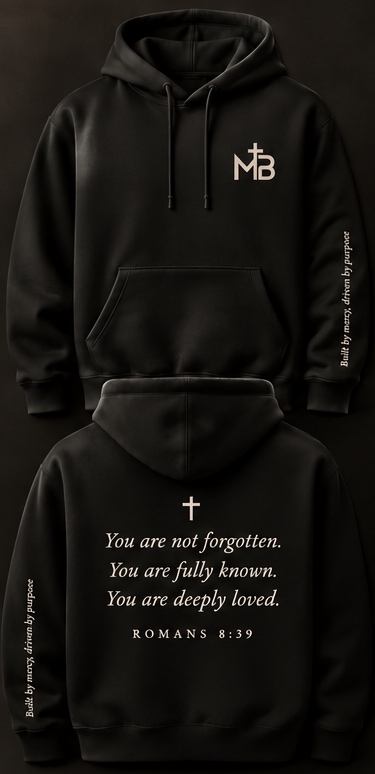
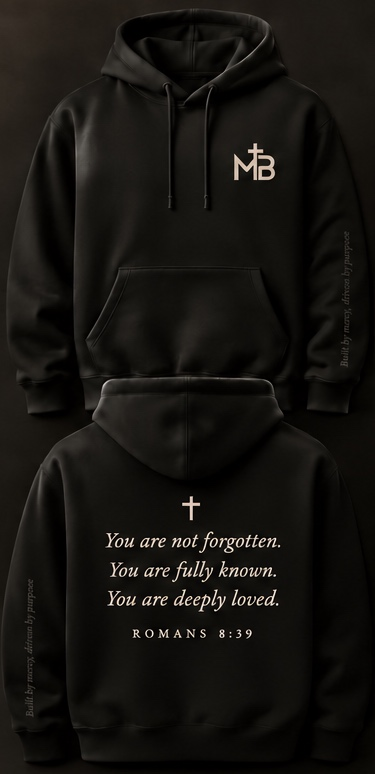
Use tonal sleeve lettering across hoodie previews

diff --git a/index.html b/index.html
@@ -4,6 +4,6 @@
 .product-card .card-preorder{display:inline-block;margin-top:14px}
 .interest-form .form-status{margin:8px 0 0;font-size:.95rem}
 .interest-form .form-status.error{color:#ff8a80}
-</style></head><body><header class="site-header" aria-label="Site header"><a class="brand-lockup" href="#top" aria-label="Mercy Built home"><img class="header-logo" src="assets/mercy-built-logo.jpg" alt="Mercy Built"/></a><nav aria-label="Primary navigation"><a href="#story">Story</a><a href="#drop">First Drop</a><a href="#sports">Sports</a><a href="#bracelets">Bracelets</a><a href="#email">Join</a><a href="#want">Tell Us</a><a class="nav-preorder" href="preorder/">Preorder the hoodie</a></nav></header><main id="top"><section class="hero"><div class="hero-card hero-photo" aria-label="Mercy Built apparel preview"><img class="hero-product-image" src="assets/mercy-built-hero-products.png" alt="Mercy Built hats, tees, and polo in warm studio light"/></div><div class="hero-copy"><p class="eyebrow">Christian apparel for every occasion</p><h1>Not self-made.<br/>Mercy built.</h1><p class="lead">Built for training, everyday wear, the course, and wherever faith has to show up quietly without pretending we have it all figured out.</p><div class="hero-actions"><a class="button" href="preorder/">Request a hoodie preorder</a><dialog id="hoodie-dialog" class="hoodie-preorder" aria-labelledby="hoodie-title"><button class="hoodie-close" type="button" aria-label="Close hoodie preorder">×</button><p class="eyebrow">Mercy Built first release</p><h2 id="hoodie-title">Hoodie preorders</h2><form class="interest-form" action="/api/interest" method="post"><p>Pick your size and color. We’ll email you when it’s time to order. No payment is due today.</p><input type="hidden" name="form_type" value="hoodie-preorder"/><div class="form-row form-row-grid"><label class="field-stack">Size<select name="preferred_size" required=""><option value="" disabled="" selected="">Choose size</option><option>XS</option><option>S</option><option>M</option><option>L</option><option>XL</option><option>2XL</option><option>3XL</option></select></label><label class="field-stack">Color<select name="preferred_color" required=""><option value="" disabled="" selected="">Choose color</option><option>Black</option><option>Olive</option><option>Cream</option><option>Blush Pink</option></select></label></div><label class="field-stack">Name<input autoComplete="name" maxLength="120" required="" name="name"/></label><label class="field-stack">Email address<input type="email" autoComplete="email" maxLength="180" required="" name="email"/></label><button type="submit">Send preorder request</button></form></dialog><a class="text-link" href="#story">Read the story</a></div></div></section><section id="story" class="story section-grid"><div><p class="eyebrow">The foundation</p><h2>Built by mercy, not ego.</h2></div><div class="story-copy"><p>Mercy Built began with a personal faith journey: baptism, surrender, and the daily work of becoming a better Christian man. The name is a reminder that strength does not start with pride. It starts with God meeting us in our weakness and rebuilding us by His mercy.</p><p>This is apparel for people still being formed. For training hard, leading humbly, falling short, getting back up, and continuing to walk with Christ.</p></div></section><section id="drop" class="drop"><div class="section-heading"><p class="eyebrow">First drop direction</p><h2>Faith-built essentials.</h2></div><figure class="product-board"><img src="assets/mercy-built-hats-polos.png" alt="Mercy Built black and cream hats with olive and black golf polos"/></figure><figure class="product-board product-board-small"><img src="assets/mercy-built-womens-pink-set.png" alt="Mercy Built blush pink hat and women&#x27;s polo with black MB cross logo"/></figure><figure class="product-board"><img src="assets/mercy-built-tees-corinthians.jpg" alt="Mercy Built tees in black, olive, cream, and pink with left chest logo and 2 Corinthians 5:17 back verse"/></figure><figure class="product-board"><img src="assets/mercy-built-hoodies-romans.jpg?v=sleeves" alt="Mercy Built hoodies in four colors with lettering on the left sleeve and the Romans 8:39 back message"/></figure><figure class="product-board"><img src="assets/mercy-built-womens-sweatpants.png" alt="Mercy Built women&#x27;s sweatpants in black, olive, cream, and pink with MB cross logo"/></figure><figure class="product-board"><img src="assets/mercy-built-training-collection.png" alt="Mercy Built premium training collection with gym shorts, leggings, workout shirts, and tanks"/></figure><figure class="product-board"><img src="assets/mercy-built-womens-fit-standard.png" alt="Mercy Built women&#x27;s leggings and shorts fit standard with no front seam, shorter shorts, and sculpting fit"/></figure><div class="product-grid" aria-label="First drop product concepts"><article class="product-card"><span class="product-tag">01</span><h3>Training Tees</h3><p>Black, olive, cream, and pink tees with a small left-chest MB mark and a 2 Corinthians 5:17 back design about being made new.</p></article><article class="product-card product-card-featured"><span class="product-tag">02</span><h3>Everyday Hats</h3><p>Black, cream, charcoal, and olive caps with the MB cross mark up front and short scripture references on the side.</p></article><article class="product-card"><span class="product-tag">03</span><h3>Golf Polos</h3><p>Refined performance polos with a subtle MB chest mark, made to carry the brand without feeling loud.</p></article><article class="product-card"><span class="product-tag">04</span><h3>Hoodies</h3><p>A heavier comfort piece with a quiet front mark and the Romans 8:39 back message, “You are not forgotten. You are fully known. You are deeply loved.”</p><p>“Built by mercy, driven by purpose” runs up the left sleeve on every color.</p><a class="button card-preorder" href="preorder/">Preorder the hoodie</a></article><article class="product-card product-card-featured"><span class="product-tag">05</span><h3>Women&#x27;s Sweatpants</h3><p>Soft fleece sweats in black, olive, cream, and pink with a small MB cross mark and quiet scripture detail.</p></article><article class="product-card"><span class="product-tag">06</span><h3>Training Collection</h3><p>Premium-feel gym shorts, leggings, workout shirts, and tanks with smooth performance fabric and quiet MB details.</p></article><article class="product-card product-card-featured"><span class="product-tag">07</span><h3>Women&#x27;s Fit Standard</h3><p>No front seam, shorter training shorts, high-rise support, buttery-soft fabric, and a sculpting fit designed to flatter.</p></article></div></section><section id="sports" class="drop sports-section" aria-labelledby="sports-heading"><div class="section-heading"><p class="eyebrow">MercyBuilt Sport · Coming soon</p><h2 id="sports-heading">Faith in every arena.</h2><p class="collection-intro">On the mats. In the ring. On the course. On the field. Carry the same foundation into every discipline.</p></div><figure class="product-board concept-board"><a href="assets/mercy-built-sports-options-v2.png" target="_blank" rel="noopener noreferrer" aria-label="View full-size MercyBuilt sports picture options"><img src="assets/mercy-built-sports-options-v3.png" alt="MercyBuilt sport shirt design options A and B for MMA, BJJ, Jiu Jitsu, Muay Thai, Golf, and Baseball"/></a><figcaption>Picture options A &amp; B for every sport: cool Mercy Built shirts with the sport name, plus rash guards and shorts where they fit. All sports collections coming soon. Tap to view full size.</figcaption></figure><div class="product-grid" aria-label="MercyBuilt sports collections"><article class="product-card"><span class="product-tag">MercyBuilt Sport / 01</span><h3>MercyBuilt MMA</h3><span class="coming-soon-badge">Coming soon</span><p>Cool Mercy Built MMA shirts, plus rash guards and fight shorts for the work between rounds.</p></article><article class="product-card product-card-featured"><span class="product-tag">MercyBuilt Sport / 02</span><h3>MercyBuilt BJJ</h3><span class="coming-soon-badge">Coming soon</span><p>Mercy Built BJJ shirts alongside Brazilian Jiu Jitsu rash guards and grappling shorts.</p></article><article class="product-card"><span class="product-tag">MercyBuilt Sport / 03</span><h3>MercyBuilt Jiu Jitsu</h3><span class="coming-soon-badge">Coming soon</span><p>Mercy Built Jiu Jitsu shirts, rash guards, and shorts for the Jiu Jitsu community.</p></article><article class="product-card product-card-featured"><span class="product-tag">MercyBuilt Sport / 04</span><h3>MercyBuilt Muay Thai</h3><span class="coming-soon-badge">Coming soon</span><p>Mercy Built Muay Thai shirts with rash guards and Thai shorts shaped around discipline.</p></article><article class="product-card"><span class="product-tag">MercyBuilt Sport / 05</span><h3>MercyBuilt Golf</h3><span class="coming-soon-badge">Coming soon</span><p>Simple sport shirts that say Mercy Built Golf, with subtle hats and layers for every round.</p></article><article class="product-card product-card-featured"><span class="product-tag">MercyBuilt Sport / 06</span><h3>MercyBuilt Baseball</h3><span class="coming-soon-badge">Coming soon</span><p>Simple shirts that say Mercy Built Baseball, with caps and practice-ready layers.</p></article></div><div class="collection-footer"><p>These collections are in development. Tell us which sport and gear you want to see first.</p><a class="text-link" href="#want">Choose your collection →</a></div></section><section id="bracelets" class="drop bracelets-section" aria-labelledby="bracelets-heading"><div class="section-heading"><p class="eyebrow">Everyday reminders · Bracelet concepts</p><h2 id="bracelets-heading">Small reminder.<br/>Strong foundation.</h2><p class="collection-intro">A simple way to carry MercyBuilt with you, share your faith, or give someone a little encouragement.</p></div><figure class="product-board concept-board"><a href="assets/mercy-built-bracelet-options.png" target="_blank" rel="noopener noreferrer" aria-label="View full-size MercyBuilt bracelet picture options"><img src="assets/mercy-built-bracelet-options.png" alt="Three MercyBuilt bracelet design options: silicone bands in four colors, Not Self-Made scripture bands, and adjustable woven bracelets"/></a><figcaption>Compare A: Mercy Built Band, B: Scripture Band, and C: Daily Mercy. Design mockups. Tap to view full size.</figcaption></figure><div class="product-grid" aria-label="MercyBuilt bracelet concepts"><article class="product-card product-card-featured"><span class="product-tag">01 / Silicone</span><h3>Mercy Built Band</h3><p>A simple silicone wristband concept with MERCY BUILT lettering. Black, olive, cream, and pink color directions.</p></article><article class="product-card"><span class="product-tag">02 / Scripture</span><h3>Not Self-Made</h3><p>NOT SELF-MADE. MERCY BUILT. on the outside, with Romans 8:39 as a quiet reminder inside the band.</p></article><article class="product-card product-card-featured"><span class="product-tag">03 / Woven</span><h3>Daily Mercy</h3><p>An adjustable woven bracelet concept with a small MercyBuilt detail. Understated enough for everyday wear.</p></article></div><div class="collection-footer"><p>Individual bands and shareable packs are being explored. Final materials, sizing, and pricing will follow sampling.</p><a class="text-link" href="#want">Tell us your bracelet pick →</a></div></section><section id="join" class="join"><div><p class="eyebrow">Coming soon</p><h2>Get first-drop updates.</h2><p>Drop your email and we will keep you updated as Mercy Built gets ready to launch.</p></div><form class="signup interest-form" name="first-drop-interest" action="/api/interest" method="post"><div class="field-stack"><label for="email">Email address</label><input id="email" type="email" placeholder="you@example.com" autoComplete="email" required="" name="email"/></div><button type="submit">Keep me updated</button><p class="form-note">No spam. Just Mercy Built launch updates and first-drop news.</p></form></section><section id="want" class="join want-section"><div><p class="eyebrow">First order</p><h2>Tell us what you want.</h2><p>Help us order smarter. Pick the item, size, and color you would actually buy when the first drop opens.</p></div><form class="signup interest-form" name="first-drop-product-interest" action="/api/interest" method="post"><input type="hidden" name="form_type" value="product-interest"/><div class="field-stack"><label for="want-email">Email address</label><input id="want-email" type="email" placeholder="you@example.com" autoComplete="email" required="" name="email"/></div><div class="field-stack"><label for="want-name">Name</label><input id="want-name" type="text" placeholder="Your name" autoComplete="name" name="name"/></div><div class="field-stack"><label for="product">What do you want?</label><select id="product" name="product_interest" required=""><option value="">Pick one</option><option>2 Corinthians 5:17 tee</option><option>Romans 8:39 hoodie</option><option>MB cross hat</option><option>Psalm side-stitch hat</option><option>Golf polo</option><option>Women&#x27;s pink hat / polo</option><option>Women&#x27;s sweatpants</option><option>Men&#x27;s gym shorts</option><option>Women&#x27;s no-front-seam short leggings</option><option>Women&#x27;s no-front-seam full-length leggings</option><option>Women&#x27;s shorter training shorts</option><option>Men&#x27;s workout shirt</option><option>Women&#x27;s workout shirt</option><option>Training tank</option><optgroup label="MercyBuilt Sport"><option>MercyBuilt MMA</option><option>MercyBuilt BJJ</option><option>MercyBuilt Jiu Jitsu</option><option>MercyBuilt Muay Thai</option><option>MercyBuilt Golf</option><option>MercyBuilt Baseball</option></optgroup><optgroup label="MercyBuilt Bracelets"><option>Mercy Built silicone band</option><option>Not Self-Made scripture band</option><option>Daily Mercy woven bracelet</option><option>Bracelet multipack</option></optgroup><option>Multiple designs</option></select></div><div class="form-row form-row-grid"><div class="field-stack"><label for="size">Preferred size</label><select id="size" name="preferred_size"><option value="">Pick size</option><option>XS</option><option>S</option><option>M</option><option>L</option><option>XL</option><option>2XL</option><option>3XL</option><option>Hat only</option></select></div><div class="field-stack"><label for="color">Favorite color</label><select id="color" name="preferred_color"><option value="">Pick color</option><option>Black</option><option>Olive</option><option>Cream</option><option>Pink</option><option>Charcoal</option><option>No preference</option></select></div></div><div class="field-stack"><label for="quantity">Likely quantity</label><select id="quantity" name="quantity"><option>1</option><option>2</option><option>3</option><option>4+</option></select></div><div class="field-stack"><label for="notes">Anything else?</label><textarea id="notes" name="notes" rows="4" placeholder="Favorite fit, another color, another verse, or the design you want most."></textarea></div><button type="submit">Save my interest</button><p class="form-note">This saves to the same first-drop list so we can see what people are asking for.</p></form></section></main><footer><span>Mercy Built</span><span>Built by mercy. Proven daily.</span></footer><script src="https://cdn.jsdelivr.net/npm/@supabase/supabase-js@2"></script>
+</style></head><body><header class="site-header" aria-label="Site header"><a class="brand-lockup" href="#top" aria-label="Mercy Built home"><img class="header-logo" src="assets/mercy-built-logo.jpg" alt="Mercy Built"/></a><nav aria-label="Primary navigation"><a href="#story">Story</a><a href="#drop">First Drop</a><a href="#sports">Sports</a><a href="#bracelets">Bracelets</a><a href="#email">Join</a><a href="#want">Tell Us</a><a class="nav-preorder" href="preorder/">Preorder the hoodie</a></nav></header><main id="top"><section class="hero"><div class="hero-card hero-photo" aria-label="Mercy Built apparel preview"><img class="hero-product-image" src="assets/mercy-built-hero-products.png" alt="Mercy Built hats, tees, and polo in warm studio light"/></div><div class="hero-copy"><p class="eyebrow">Christian apparel for every occasion</p><h1>Not self-made.<br/>Mercy built.</h1><p class="lead">Built for training, everyday wear, the course, and wherever faith has to show up quietly without pretending we have it all figured out.</p><div class="hero-actions"><a class="button" href="preorder/">Request a hoodie preorder</a><dialog id="hoodie-dialog" class="hoodie-preorder" aria-labelledby="hoodie-title"><button class="hoodie-close" type="button" aria-label="Close hoodie preorder">×</button><p class="eyebrow">Mercy Built first release</p><h2 id="hoodie-title">Hoodie preorders</h2><form class="interest-form" action="/api/interest" method="post"><p>Pick your size and color. We’ll email you when it’s time to order. No payment is due today.</p><input type="hidden" name="form_type" value="hoodie-preorder"/><div class="form-row form-row-grid"><label class="field-stack">Size<select name="preferred_size" required=""><option value="" disabled="" selected="">Choose size</option><option>XS</option><option>S</option><option>M</option><option>L</option><option>XL</option><option>2XL</option><option>3XL</option></select></label><label class="field-stack">Color<select name="preferred_color" required=""><option value="" disabled="" selected="">Choose color</option><option>Black</option><option>Olive</option><option>Cream</option><option>Blush Pink</option></select></label></div><label class="field-stack">Name<input autoComplete="name" maxLength="120" required="" name="name"/></label><label class="field-stack">Email address<input type="email" autoComplete="email" maxLength="180" required="" name="email"/></label><button type="submit">Send preorder request</button></form></dialog><a class="text-link" href="#story">Read the story</a></div></div></section><section id="story" class="story section-grid"><div><p class="eyebrow">The foundation</p><h2>Built by mercy, not ego.</h2></div><div class="story-copy"><p>Mercy Built began with a personal faith journey: baptism, surrender, and the daily work of becoming a better Christian man. The name is a reminder that strength does not start with pride. It starts with God meeting us in our weakness and rebuilding us by His mercy.</p><p>This is apparel for people still being formed. For training hard, leading humbly, falling short, getting back up, and continuing to walk with Christ.</p></div></section><section id="drop" class="drop"><div class="section-heading"><p class="eyebrow">First drop direction</p><h2>Faith-built essentials.</h2></div><figure class="product-board"><img src="assets/mercy-built-hats-polos.png" alt="Mercy Built black and cream hats with olive and black golf polos"/></figure><figure class="product-board product-board-small"><img src="assets/mercy-built-womens-pink-set.png" alt="Mercy Built blush pink hat and women&#x27;s polo with black MB cross logo"/></figure><figure class="product-board"><img src="assets/mercy-built-tees-corinthians.jpg" alt="Mercy Built tees in black, olive, cream, and pink with left chest logo and 2 Corinthians 5:17 back verse"/></figure><figure class="product-board"><img src="assets/mercy-built-hoodies-romans.jpg?v=tonal" alt="Mercy Built hoodies in four colors with lettering on the left sleeve and the Romans 8:39 back message"/></figure><figure class="product-board"><img src="assets/mercy-built-womens-sweatpants.png" alt="Mercy Built women&#x27;s sweatpants in black, olive, cream, and pink with MB cross logo"/></figure><figure class="product-board"><img src="assets/mercy-built-training-collection.png" alt="Mercy Built premium training collection with gym shorts, leggings, workout shirts, and tanks"/></figure><figure class="product-board"><img src="assets/mercy-built-womens-fit-standard.png" alt="Mercy Built women&#x27;s leggings and shorts fit standard with no front seam, shorter shorts, and sculpting fit"/></figure><div class="product-grid" aria-label="First drop product concepts"><article class="product-card"><span class="product-tag">01</span><h3>Training Tees</h3><p>Black, olive, cream, and pink tees with a small left-chest MB mark and a 2 Corinthians 5:17 back design about being made new.</p></article><article class="product-card product-card-featured"><span class="product-tag">02</span><h3>Everyday Hats</h3><p>Black, cream, charcoal, and olive caps with the MB cross mark up front and short scripture references on the side.</p></article><article class="product-card"><span class="product-tag">03</span><h3>Golf Polos</h3><p>Refined performance polos with a subtle MB chest mark, made to carry the brand without feeling loud.</p></article><article class="product-card"><span class="product-tag">04</span><h3>Hoodies</h3><p>A heavier comfort piece with a quiet front mark and the Romans 8:39 back message, “You are not forgotten. You are fully known. You are deeply loved.”</p><p>“Built by mercy, driven by purpose” runs up the left sleeve on every color.</p><a class="button card-preorder" href="preorder/">Preorder the hoodie</a></article><article class="product-card product-card-featured"><span class="product-tag">05</span><h3>Women&#x27;s Sweatpants</h3><p>Soft fleece sweats in black, olive, cream, and pink with a small MB cross mark and quiet scripture detail.</p></article><article class="product-card"><span class="product-tag">06</span><h3>Training Collection</h3><p>Premium-feel gym shorts, leggings, workout shirts, and tanks with smooth performance fabric and quiet MB details.</p></article><article class="product-card product-card-featured"><span class="product-tag">07</span><h3>Women&#x27;s Fit Standard</h3><p>No front seam, shorter training shorts, high-rise support, buttery-soft fabric, and a sculpting fit designed to flatter.</p></article></div></section><section id="sports" class="drop sports-section" aria-labelledby="sports-heading"><div class="section-heading"><p class="eyebrow">MercyBuilt Sport · Coming soon</p><h2 id="sports-heading">Faith in every arena.</h2><p class="collection-intro">On the mats. In the ring. On the course. On the field. Carry the same foundation into every discipline.</p></div><figure class="product-board concept-board"><a href="assets/mercy-built-sports-options-v2.png" target="_blank" rel="noopener noreferrer" aria-label="View full-size MercyBuilt sports picture options"><img src="assets/mercy-built-sports-options-v3.png" alt="MercyBuilt sport shirt design options A and B for MMA, BJJ, Jiu Jitsu, Muay Thai, Golf, and Baseball"/></a><figcaption>Picture options A &amp; B for every sport: cool Mercy Built shirts with the sport name, plus rash guards and shorts where they fit. All sports collections coming soon. Tap to view full size.</figcaption></figure><div class="product-grid" aria-label="MercyBuilt sports collections"><article class="product-card"><span class="product-tag">MercyBuilt Sport / 01</span><h3>MercyBuilt MMA</h3><span class="coming-soon-badge">Coming soon</span><p>Cool Mercy Built MMA shirts, plus rash guards and fight shorts for the work between rounds.</p></article><article class="product-card product-card-featured"><span class="product-tag">MercyBuilt Sport / 02</span><h3>MercyBuilt BJJ</h3><span class="coming-soon-badge">Coming soon</span><p>Mercy Built BJJ shirts alongside Brazilian Jiu Jitsu rash guards and grappling shorts.</p></article><article class="product-card"><span class="product-tag">MercyBuilt Sport / 03</span><h3>MercyBuilt Jiu Jitsu</h3><span class="coming-soon-badge">Coming soon</span><p>Mercy Built Jiu Jitsu shirts, rash guards, and shorts for the Jiu Jitsu community.</p></article><article class="product-card product-card-featured"><span class="product-tag">MercyBuilt Sport / 04</span><h3>MercyBuilt Muay Thai</h3><span class="coming-soon-badge">Coming soon</span><p>Mercy Built Muay Thai shirts with rash guards and Thai shorts shaped around discipline.</p></article><article class="product-card"><span class="product-tag">MercyBuilt Sport / 05</span><h3>MercyBuilt Golf</h3><span class="coming-soon-badge">Coming soon</span><p>Simple sport shirts that say Mercy Built Golf, with subtle hats and layers for every round.</p></article><article class="product-card product-card-featured"><span class="product-tag">MercyBuilt Sport / 06</span><h3>MercyBuilt Baseball</h3><span class="coming-soon-badge">Coming soon</span><p>Simple shirts that say Mercy Built Baseball, with caps and practice-ready layers.</p></article></div><div class="collection-footer"><p>These collections are in development. Tell us which sport and gear you want to see first.</p><a class="text-link" href="#want">Choose your collection →</a></div></section><section id="bracelets" class="drop bracelets-section" aria-labelledby="bracelets-heading"><div class="section-heading"><p class="eyebrow">Everyday reminders · Bracelet concepts</p><h2 id="bracelets-heading">Small reminder.<br/>Strong foundation.</h2><p class="collection-intro">A simple way to carry MercyBuilt with you, share your faith, or give someone a little encouragement.</p></div><figure class="product-board concept-board"><a href="assets/mercy-built-bracelet-options.png" target="_blank" rel="noopener noreferrer" aria-label="View full-size MercyBuilt bracelet picture options"><img src="assets/mercy-built-bracelet-options.png" alt="Three MercyBuilt bracelet design options: silicone bands in four colors, Not Self-Made scripture bands, and adjustable woven bracelets"/></a><figcaption>Compare A: Mercy Built Band, B: Scripture Band, and C: Daily Mercy. Design mockups. Tap to view full size.</figcaption></figure><div class="product-grid" aria-label="MercyBuilt bracelet concepts"><article class="product-card product-card-featured"><span class="product-tag">01 / Silicone</span><h3>Mercy Built Band</h3><p>A simple silicone wristband concept with MERCY BUILT lettering. Black, olive, cream, and pink color directions.</p></article><article class="product-card"><span class="product-tag">02 / Scripture</span><h3>Not Self-Made</h3><p>NOT SELF-MADE. MERCY BUILT. on the outside, with Romans 8:39 as a quiet reminder inside the band.</p></article><article class="product-card product-card-featured"><span class="product-tag">03 / Woven</span><h3>Daily Mercy</h3><p>An adjustable woven bracelet concept with a small MercyBuilt detail. Understated enough for everyday wear.</p></article></div><div class="collection-footer"><p>Individual bands and shareable packs are being explored. Final materials, sizing, and pricing will follow sampling.</p><a class="text-link" href="#want">Tell us your bracelet pick →</a></div></section><section id="join" class="join"><div><p class="eyebrow">Coming soon</p><h2>Get first-drop updates.</h2><p>Drop your email and we will keep you updated as Mercy Built gets ready to launch.</p></div><form class="signup interest-form" name="first-drop-interest" action="/api/interest" method="post"><div class="field-stack"><label for="email">Email address</label><input id="email" type="email" placeholder="you@example.com" autoComplete="email" required="" name="email"/></div><button type="submit">Keep me updated</button><p class="form-note">No spam. Just Mercy Built launch updates and first-drop news.</p></form></section><section id="want" class="join want-section"><div><p class="eyebrow">First order</p><h2>Tell us what you want.</h2><p>Help us order smarter. Pick the item, size, and color you would actually buy when the first drop opens.</p></div><form class="signup interest-form" name="first-drop-product-interest" action="/api/interest" method="post"><input type="hidden" name="form_type" value="product-interest"/><div class="field-stack"><label for="want-email">Email address</label><input id="want-email" type="email" placeholder="you@example.com" autoComplete="email" required="" name="email"/></div><div class="field-stack"><label for="want-name">Name</label><input id="want-name" type="text" placeholder="Your name" autoComplete="name" name="name"/></div><div class="field-stack"><label for="product">What do you want?</label><select id="product" name="product_interest" required=""><option value="">Pick one</option><option>2 Corinthians 5:17 tee</option><option>Romans 8:39 hoodie</option><option>MB cross hat</option><option>Psalm side-stitch hat</option><option>Golf polo</option><option>Women&#x27;s pink hat / polo</option><option>Women&#x27;s sweatpants</option><option>Men&#x27;s gym shorts</option><option>Women&#x27;s no-front-seam short leggings</option><option>Women&#x27;s no-front-seam full-length leggings</option><option>Women&#x27;s shorter training shorts</option><option>Men&#x27;s workout shirt</option><option>Women&#x27;s workout shirt</option><option>Training tank</option><optgroup label="MercyBuilt Sport"><option>MercyBuilt MMA</option><option>MercyBuilt BJJ</option><option>MercyBuilt Jiu Jitsu</option><option>MercyBuilt Muay Thai</option><option>MercyBuilt Golf</option><option>MercyBuilt Baseball</option></optgroup><optgroup label="MercyBuilt Bracelets"><option>Mercy Built silicone band</option><option>Not Self-Made scripture band</option><option>Daily Mercy woven bracelet</option><option>Bracelet multipack</option></optgroup><option>Multiple designs</option></select></div><div class="form-row form-row-grid"><div class="field-stack"><label for="size">Preferred size</label><select id="size" name="preferred_size"><option value="">Pick size</option><option>XS</option><option>S</option><option>M</option><option>L</option><option>XL</option><option>2XL</option><option>3XL</option><option>Hat only</option></select></div><div class="field-stack"><label for="color">Favorite color</label><select id="color" name="preferred_color"><option value="">Pick color</option><option>Black</option><option>Olive</option><option>Cream</option><option>Pink</option><option>Charcoal</option><option>No preference</option></select></div></div><div class="field-stack"><label for="quantity">Likely quantity</label><select id="quantity" name="quantity"><option>1</option><option>2</option><option>3</option><option>4+</option></select></div><div class="field-stack"><label for="notes">Anything else?</label><textarea id="notes" name="notes" rows="4" placeholder="Favorite fit, another color, another verse, or the design you want most."></textarea></div><button type="submit">Save my interest</button><p class="form-note">This saves to the same first-drop list so we can see what people are asking for.</p></form></section></main><footer><span>Mercy Built</span><span>Built by mercy. Proven daily.</span></footer><script src="https://cdn.jsdelivr.net/npm/@supabase/supabase-js@2"></script>
 <script src="assets/site.js"></script>
 </body></html>

diff --git a/preorder/index.html b/preorder/index.html
@@ -8,7 +8,7 @@
 <meta property="og:title" content="Mercy Built | Hoodie Preorder - First Release">
 <meta property="og:description" content="Reserve your size and color for the first Mercy Built release.">
 <meta property="og:type" content="website">
-<meta property="og:image" content="https://mercybuilt.com/assets/mercy-built-hoodies-romans.jpg?v=sleeves">
+<meta property="og:image" content="https://mercybuilt.com/assets/mercy-built-hoodies-romans.jpg?v=tonal">
 <link rel="icon" href="../assets/mb-mark.jpg">
 <meta name="theme-color" content="#0d0d0d">
 <link rel="preconnect" href="https://fonts.googleapis.com"><link rel="preconnect" href="https://fonts.gstatic.com" crossorigin>
@@ -82,7 +82,7 @@ footer{padding:30px 0 40px;text-align:center;color:var(--muted);font-size:12px;l
   <section id="sleeve">
     <h2>The sleeve detail</h2>
     <p class="hint">“Built by mercy, driven by purpose” runs up the forearm on all four colors.</p>
-    <img src="../assets/hoodie-sleeve-detail.jpg?v=2" alt="Design preview of small muted lettering following the fabric near the cuff of the black hoodie" width="1672" height="941" loading="lazy" style="display:block;width:100%;height:auto;border-radius:12px">
+    <img src="../assets/hoodie-sleeve-detail.jpg?v=tonal" alt="Design preview of small muted lettering following the fabric near the cuff of the black hoodie" width="1672" height="941" loading="lazy" style="display:block;width:100%;height:auto;border-radius:12px">
   </section>
 
   <section id="preorder">
@@ -112,7 +112,7 @@ footer{padding:30px 0 40px;text-align:center;color:var(--muted);font-size:12px;l
 </main>
 <footer>Mercy Built &middot; Not self-made. Mercy built. &middot; <a href="../">mercybuilt.com</a></footer>
 
-<script src="config.js?v=romans-839-sleeves"></script>
+<script src="config.js?v=romans-839-tonal"></script>
 <script src="https://cdn.jsdelivr.net/npm/@supabase/supabase-js@2"></script>
 <script>
 (function(){

diff --git a/preorder/config.js b/preorder/config.js
@@ -9,13 +9,13 @@
 // ============================================================
 window.MB_CONFIG = {
   colors: [
-    { name: "Black",      hex: "#131210", image: "../assets/hoodie-romans-black.jpg?v=sleeves" },
-    { name: "Olive",      hex: "#4a4630", image: "../assets/hoodie-romans-olive.jpg?v=sleeves" },
-    { name: "Cream",      hex: "#d8c6b5", image: "../assets/hoodie-romans-cream.jpg?v=sleeves" },
-    { name: "Blush Pink", hex: "#ce9a8e", image: "../assets/hoodie-romans-blush-pink.jpg?v=sleeves" }
+    { name: "Black",      hex: "#131210", image: "../assets/hoodie-romans-black.jpg?v=tonal" },
+    { name: "Olive",      hex: "#4a4630", image: "../assets/hoodie-romans-olive.jpg?v=tonal" },
+    { name: "Cream",      hex: "#d8c6b5", image: "../assets/hoodie-romans-cream.jpg?v=tonal" },
+    { name: "Blush Pink", hex: "#ce9a8e", image: "../assets/hoodie-romans-blush-pink.jpg?v=tonal" }
   ],
   product: "Romans 8:39 hoodie",
-  lineup: "../assets/mercy-built-hoodies-romans.jpg?v=sleeves",
+  lineup: "../assets/mercy-built-hoodies-romans.jpg?v=tonal",
   sizes: ["XS", "S", "M", "L", "XL", "2XL", "3XL"],
   price: "",
   supabaseUrl: "https://wkftusmqasujgqgokpgw.supabase.co",
